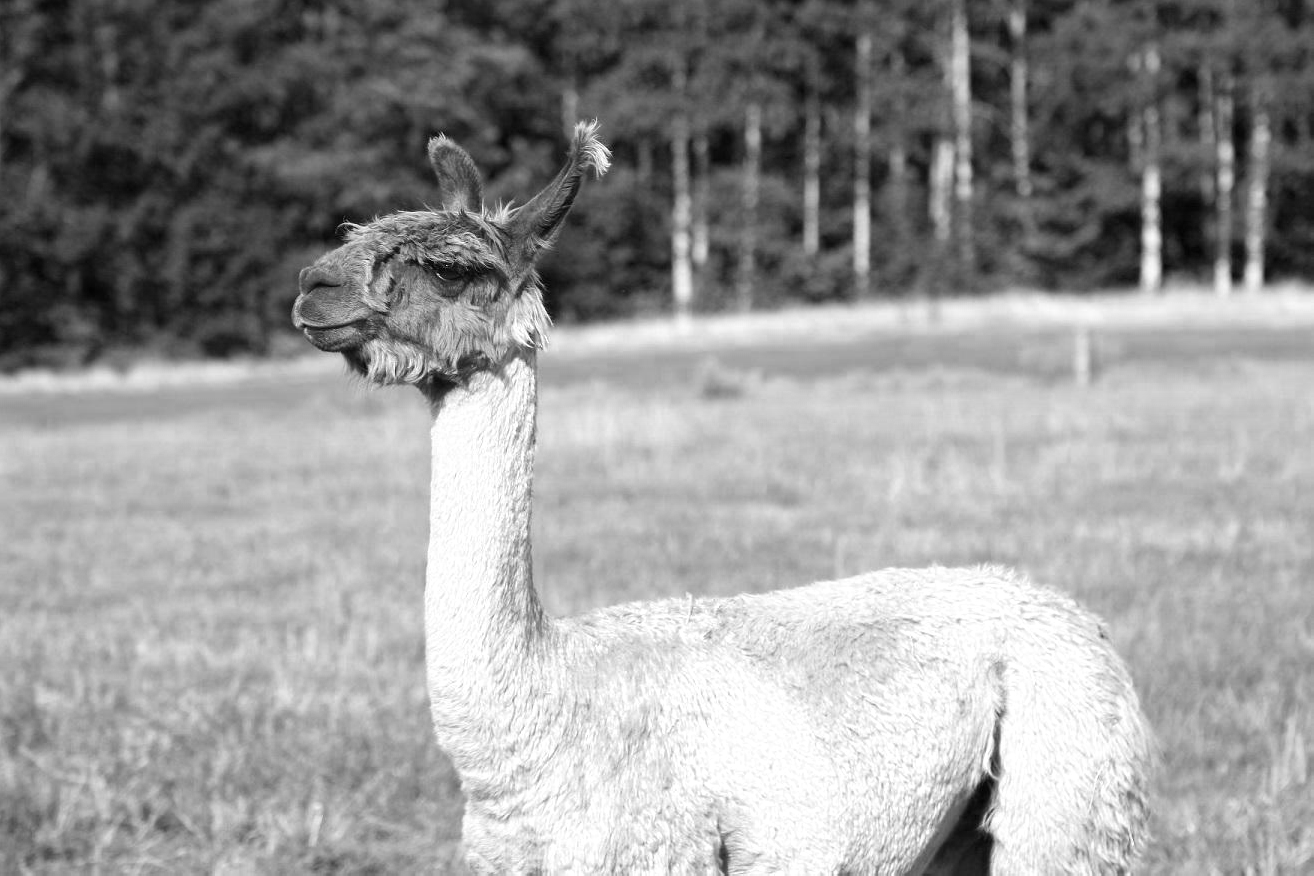
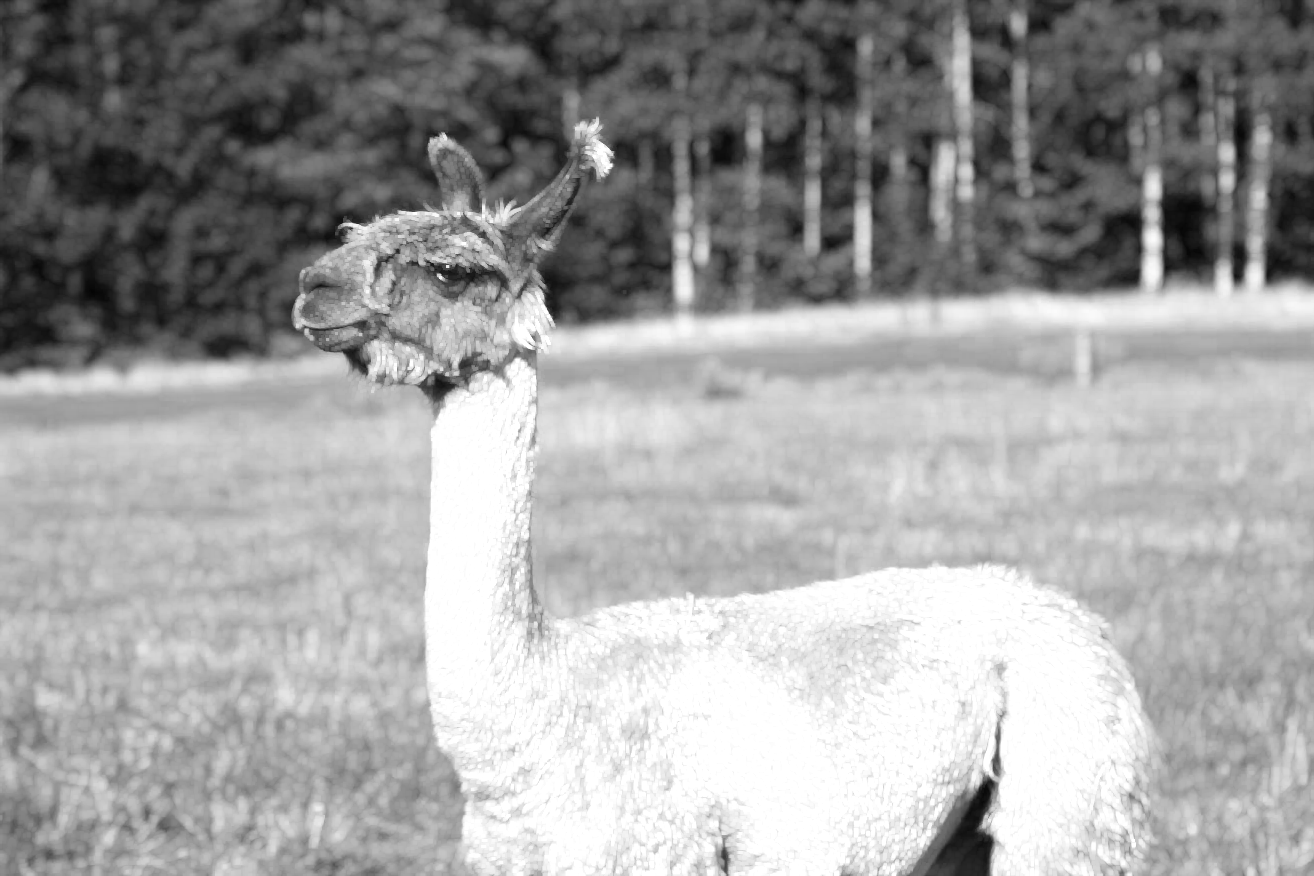
ordfilt fix

diff --git a/projekt1.cpp b/projekt1.cpp
@@ -472,10 +472,7 @@ void ordFilt2( Bitmap^& obraz, int maskX, int maskY, int num_porz, std::string n
     {
       for ( int j = 0; j < wys; j++ )
       {
-        Color Px = obraz->GetPixel( i, j );
-        int res = 0;
         vector<int> wyniki;
-        int num = 0;
         for ( int kx = -centralPointY; kx <= centralPointY; kx++ )
         {
           for ( int kz = -centralPointX; kz <= centralPointX; kz++ )
@@ -484,16 +481,15 @@ void ordFilt2( Bitmap^& obraz, int maskX, int maskY, int num_porz, std::string n
               {
                 Color Px = obraz->GetPixel( i + kz, j + kx );
                 wyniki.push_back( Px.R );
-                num++;
               }
           }
         }
-        if(wyniki.size() == num_porz )
+        sort( wyniki.begin(), wyniki.end() );
+        if( wyniki.size() >= num_porz )
           output->SetPixel( i, j, Color::FromArgb( wyniki[num_porz-1], wyniki[ num_porz - 1 ], wyniki[ num_porz - 1 ] ) );
         else
         {
-          int which = wyniki.size() - 1 < num_porz ? wyniki.size() - 1 : num_porz;
-          output->SetPixel( i, j, Color::FromArgb( wyniki[ which ], wyniki[ which ], wyniki[ which] ) );
+          output->SetPixel( i, j, Color::FromArgb( wyniki[ wyniki.size() -1 ], wyniki[ wyniki.size() -1 ], wyniki[ wyniki.size() -1] ) );
         }
 
       }
@@ -507,8 +503,6 @@ void ordFilt2( Bitmap^& obraz, int maskX, int maskY, int num_porz, std::string n
     {
       for ( int j = 0; j < wys; j++ )
       {
-        Color Px = obraz->GetPixel( i, j );
-        int res = 0;
         vector<int> wynikiR;
         vector<int> wynikiG;
         vector<int> wynikiB;
@@ -522,19 +516,17 @@ void ordFilt2( Bitmap^& obraz, int maskX, int maskY, int num_porz, std::string n
               wynikiR.push_back( Px.R );
               wynikiG.push_back( Px.G );
               wynikiB.push_back( Px.B );
-
             }
           }
         }
         std::sort( wynikiR.begin(), wynikiR.end() );
         std::sort( wynikiG.begin(), wynikiG.end() );
         std::sort( wynikiB.begin(), wynikiB.end() );
-        if ( wynikiR.size() == num_porz )
+        if ( wynikiR.size() >= num_porz )
           output->SetPixel( i, j, Color::FromArgb( wynikiR[ num_porz - 1 ], wynikiG[ num_porz - 1 ], wynikiB[ num_porz - 1 ] ) );
         else
         {
-          int which = wynikiR.size() - 1 < num_porz ? wynikiR.size() - 1 : num_porz;
-          output->SetPixel( i, j, Color::FromArgb( wynikiR[ which-1 ], wynikiG[ which-1 ], wynikiB[ which-1 ] ) );
+          output->SetPixel( i, j, Color::FromArgb( wynikiR[ wynikiR.size() -1 ], wynikiG[ wynikiG.size() -1 ], wynikiB[ wynikiB.size() -1 ] ) );
         }
 
       }
